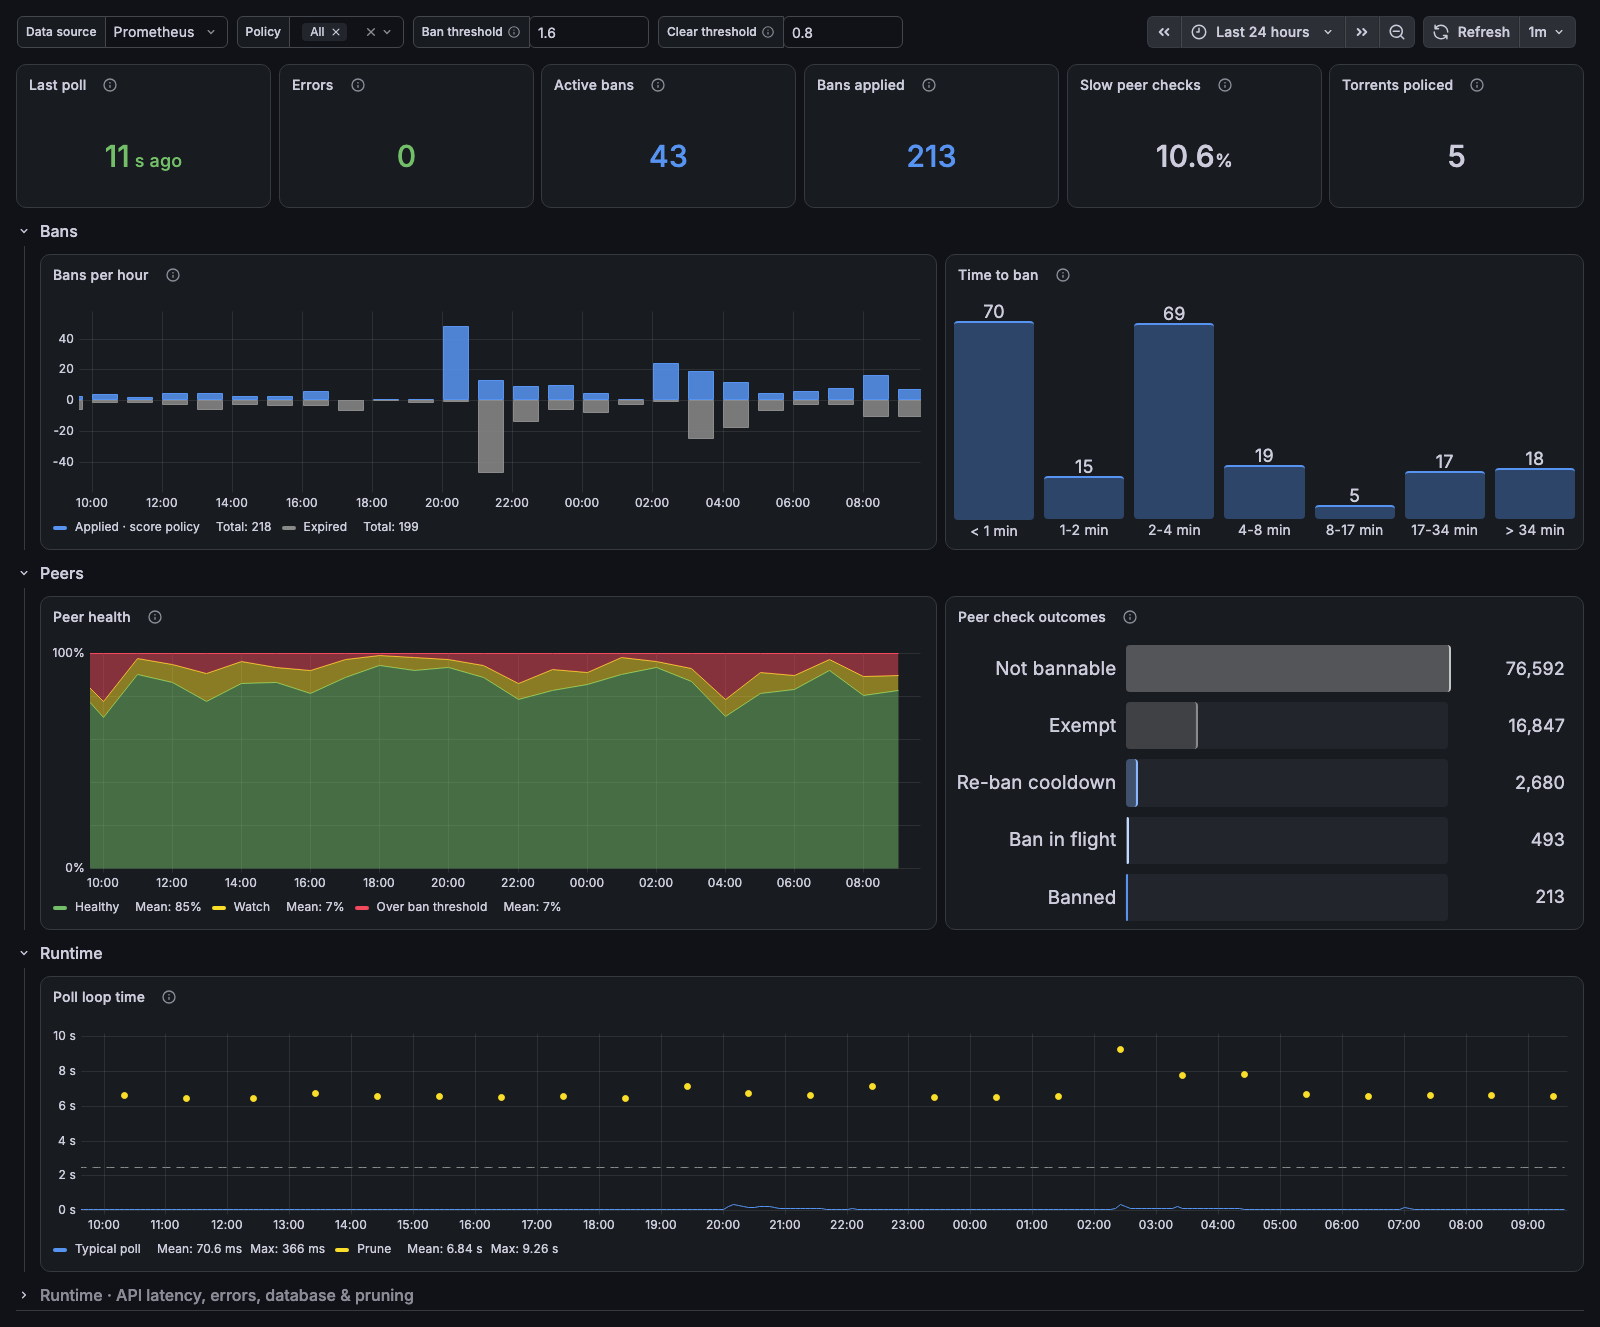
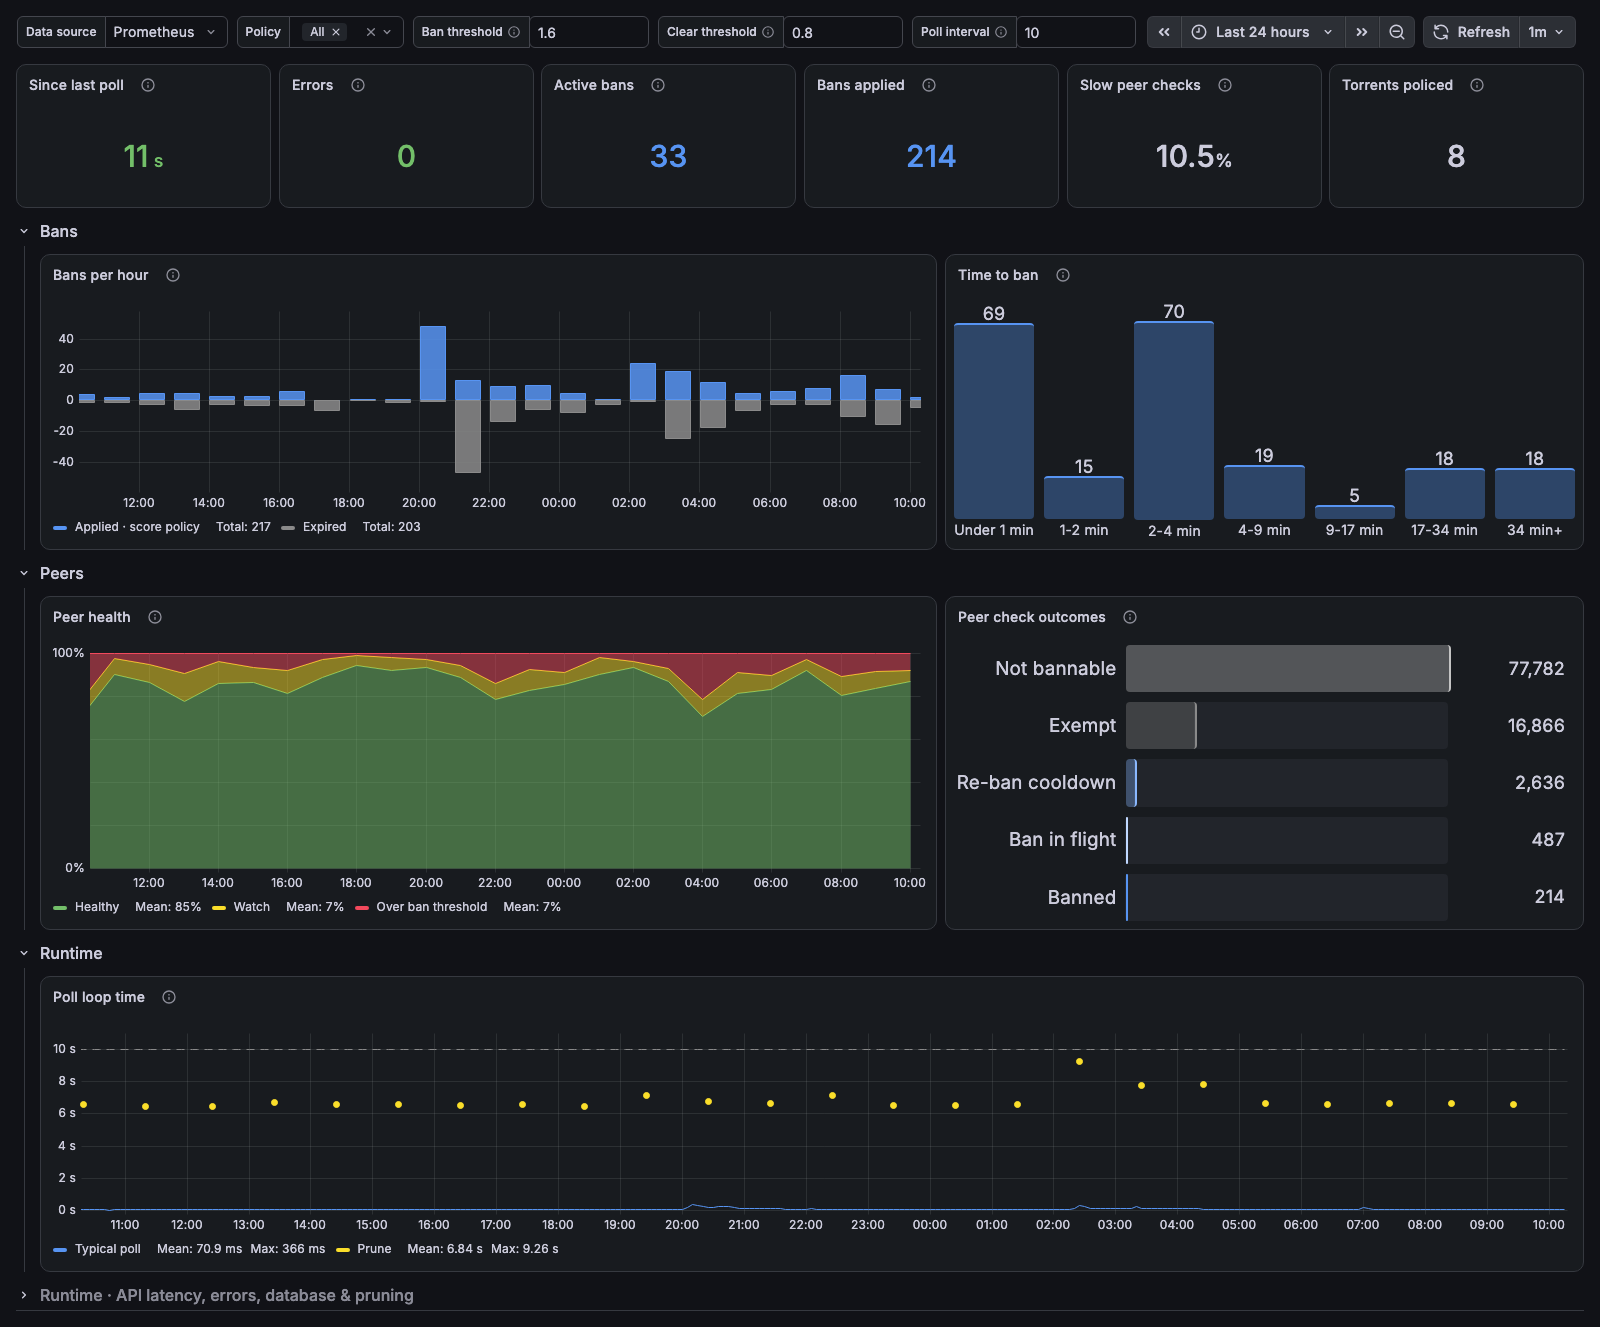
fix(brrpolice): poll interval budget, duration tile and real bucket labels
- Poll loop time draws the configured poll interval, a new poll_interval variable defaulting to 10 s, instead of a fixed 2.5 s budget: the home-ops deployment runs brrpolice defaults, so a prune longer than 10 s delays the next poll.
- Since last poll formats as a duration.
- Time to ban labels follow the exporter's power-of-two buckets.
- Descriptions say in the selected range.

diff --git a/brrpolice/README.md b/brrpolice/README.md
@@ -8,14 +8,14 @@ brrpolice: status, bans applied, how peers were judged, and how fast it polls qB
 
 ## Overview
 
-For [brrpolice](https://github.com/zariel/brrpolice), which bans leeching peers in qBittorrent. The top row shows the last poll, errors, active bans, bans applied, slow peer checks and torrents policed. Below it, bans per hour, time to ban, peer health against the ban and clear thresholds, peer check outcomes and poll loop time.
+For [brrpolice](https://github.com/zariel/brrpolice), which bans leeching peers in qBittorrent. The top row shows time since the last poll, errors, active bans, bans applied, slow peer checks and torrents policed. Below it, bans per hour, time to ban, peer health against the ban and clear thresholds, peer check outcomes and poll loop time.
 
 The collapsed **Runtime · API latency, errors, database & pruning** row holds qBittorrent API latency, errors per hour, SQLite size and rows pruned per hour.
 
 ## Requirements
 - brrpolice metrics (`brrpolice_*`) scraped by Prometheus.
 - Prometheus 2.33 or later, for negative offsets.
-- `ban_threshold` and `clear_threshold` variables should match your brrpolice config.
+- `ban_threshold`, `clear_threshold` and `poll_interval` variables should match your brrpolice config.
 
 ## Collapsed rows
 
